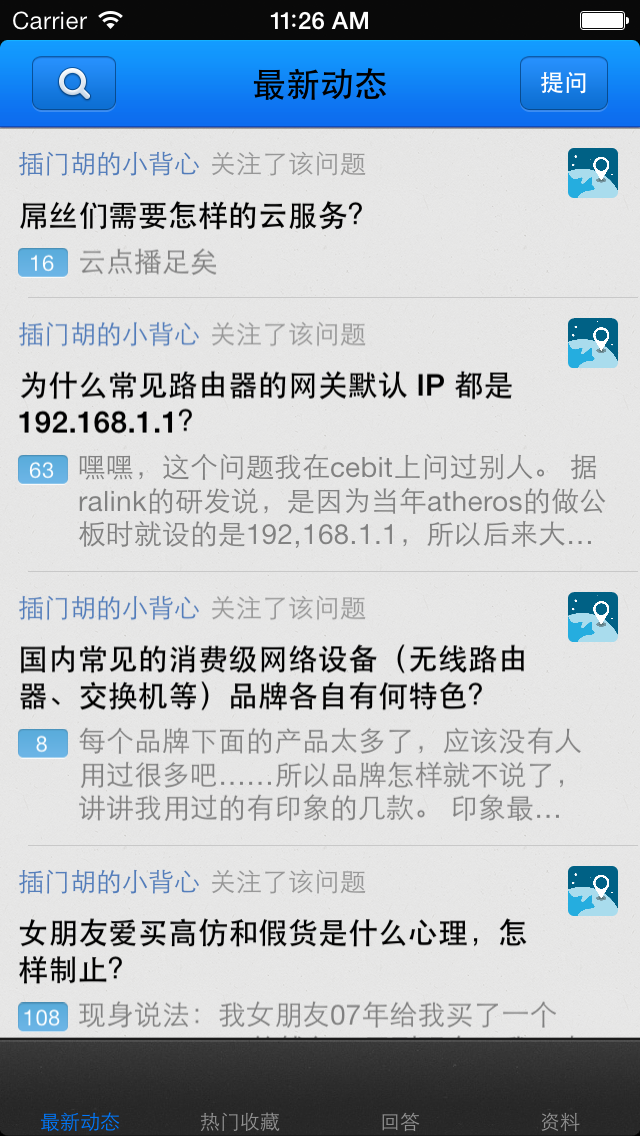
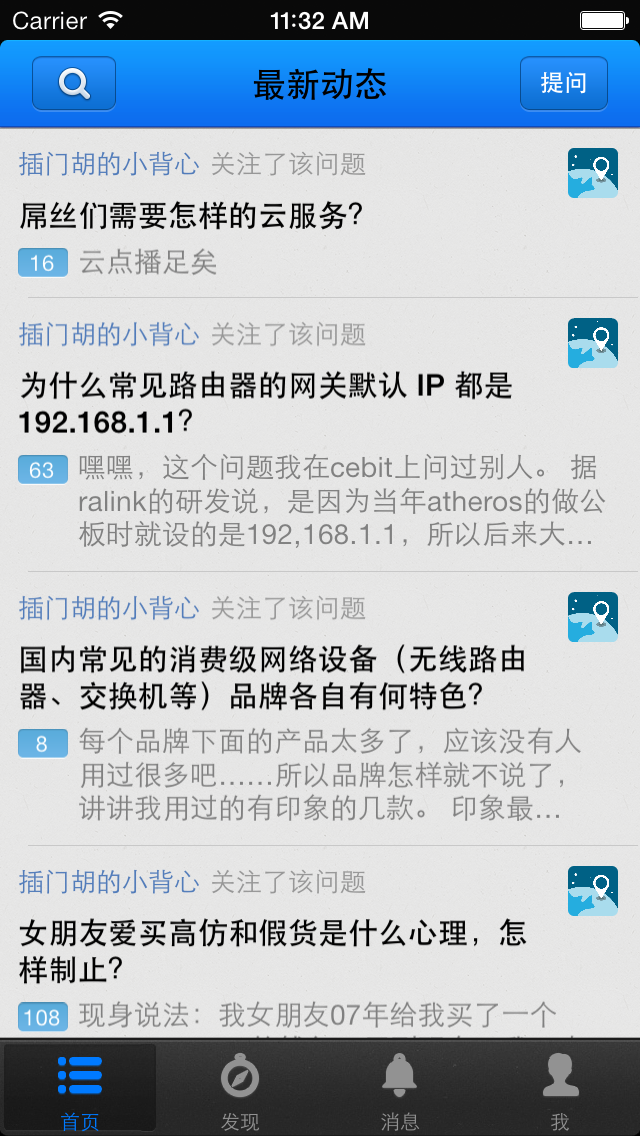
fix bugs

diff --git a/ZHDemo/ZHAppDelegate.m b/ZHDemo/ZHAppDelegate.m
@@ -64,18 +64,18 @@ didFinishLaunchingWithOptions:(NSDictionary *)launchOptions
     //  }
 
   } else {
-  	// iOS 7
-//    UITabBarItem *collectionBarItem =  [[UITabBarItem alloc] initWithTitle:@"发现" image:[UIImage imageNamed:@"ExploreNormal.png"] selectedImage:[UIImage imageNamed:@"ExploreSelected.png"]];
-//    collectionNav.tabBarItem = collectionBarItem;
-//    
-//    UITabBarItem *answerItem = [[UITabBarItem alloc] initWithTitle:@"消息" image:[UIImage imageNamed:@"NotificationNormal.png"] selectedImage:[UIImage imageNamed:@"NotificationSelected.png"]];
-//    answerNav.tabBarItem = answerItem;
-//    
-//    UITabBarItem *feedItem = [[UITabBarItem alloc] initWithTitle:@"首页" image:[UIImage imageNamed:@"FeedNormal.png"] selectedImage:[UIImage imageNamed:@"FeedSelected.png"]];
-//    feedNav.tabBarItem = feedItem;
-//    
-//    UITabBarItem *userInfoItem = [[UITabBarItem alloc] initWithTitle:@"我" image:[UIImage imageNamed:@"MaleNormal.png"] selectedImage:[UIImage imageNamed:@"MaleSelected.png"]];
-//    userInfoNav.tabBarItem = userInfoItem;
+  	// iOS 7,if error occur here under ioS 6, comment these code block 
+    UITabBarItem *collectionBarItem =  [[UITabBarItem alloc] initWithTitle:@"发现" image:[UIImage imageNamed:@"ExploreNormal.png"] selectedImage:[UIImage imageNamed:@"ExploreSelected.png"]];
+    collectionNav.tabBarItem = collectionBarItem;
+    
+    UITabBarItem *answerItem = [[UITabBarItem alloc] initWithTitle:@"消息" image:[UIImage imageNamed:@"NotificationNormal.png"] selectedImage:[UIImage imageNamed:@"NotificationSelected.png"]];
+    answerNav.tabBarItem = answerItem;
+    
+    UITabBarItem *feedItem = [[UITabBarItem alloc] initWithTitle:@"首页" image:[UIImage imageNamed:@"FeedNormal.png"] selectedImage:[UIImage imageNamed:@"FeedSelected.png"]];
+    feedNav.tabBarItem = feedItem;
+    
+    UITabBarItem *userInfoItem = [[UITabBarItem alloc] initWithTitle:@"我" image:[UIImage imageNamed:@"MaleNormal.png"] selectedImage:[UIImage imageNamed:@"MaleSelected.png"]];
+    userInfoNav.tabBarItem = userInfoItem;
   }
 
   
